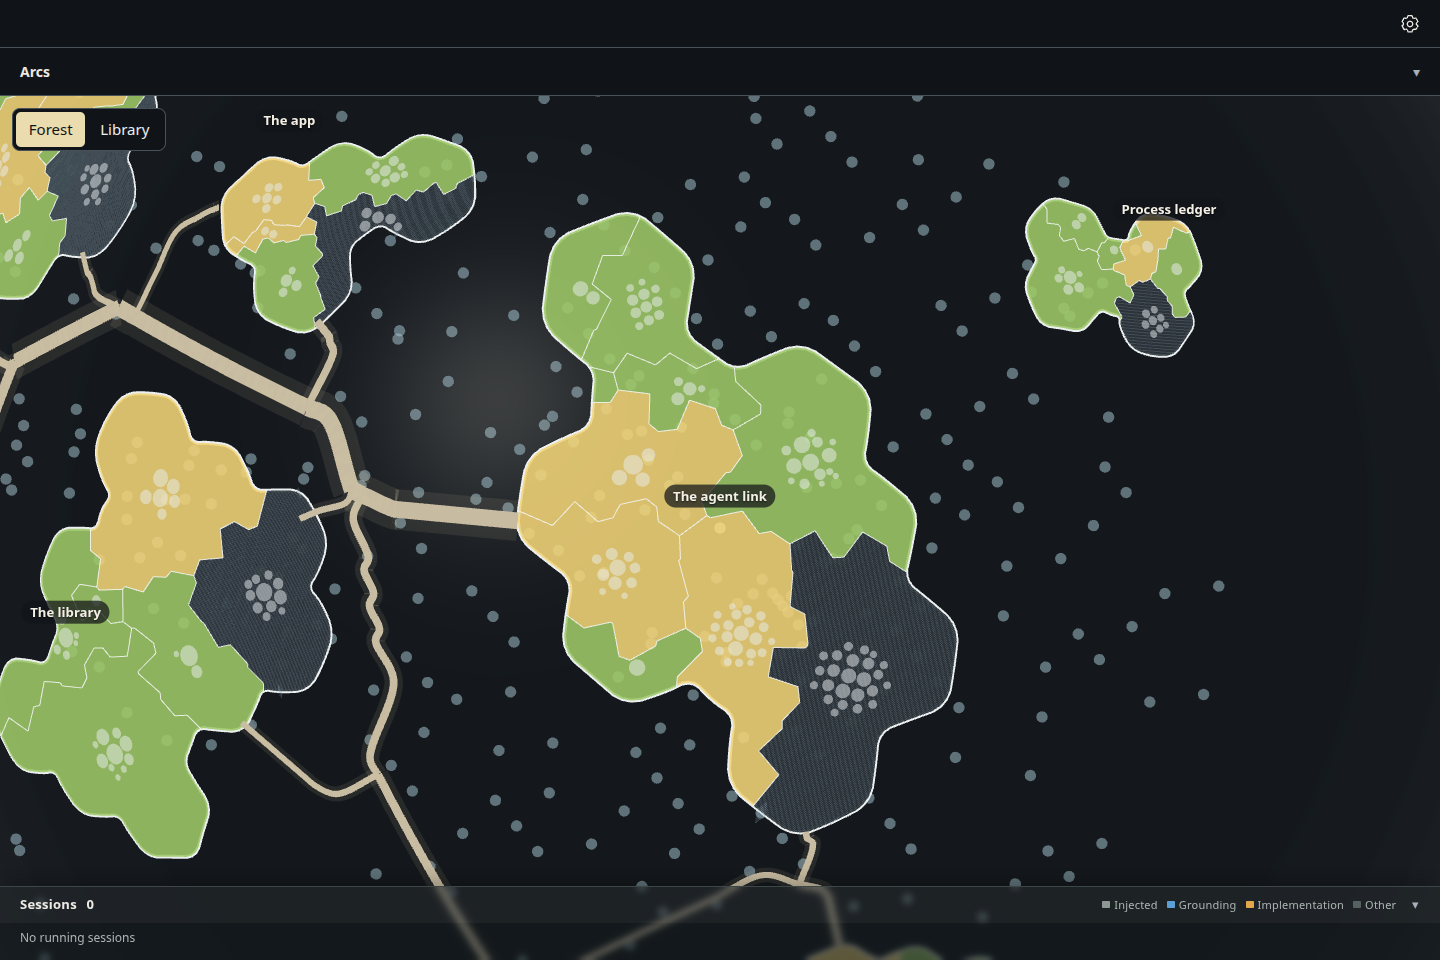
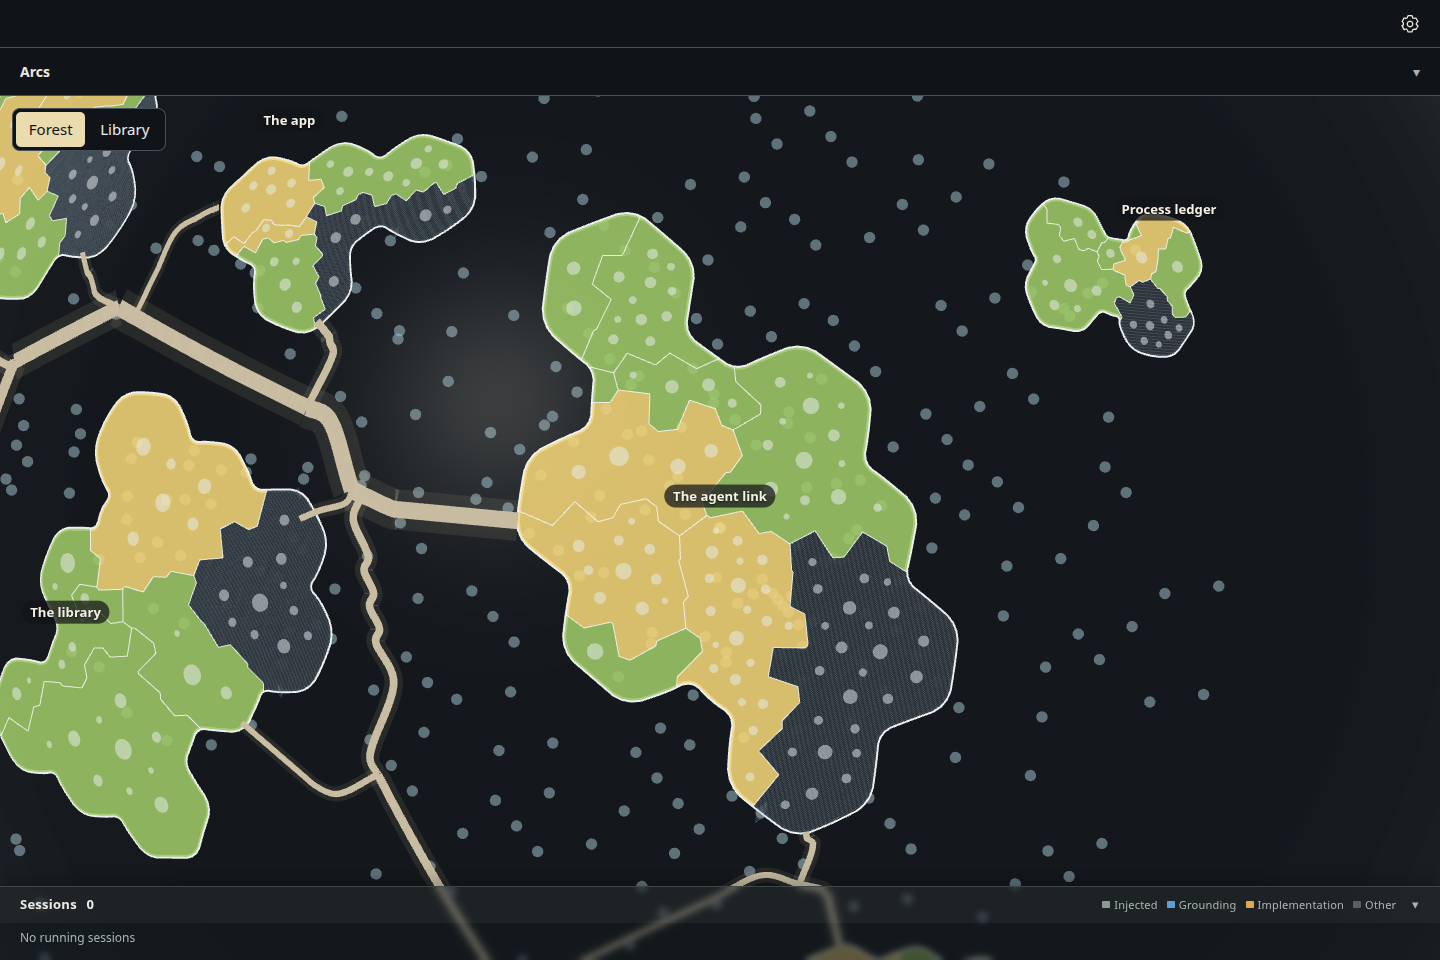
evidence(forest): recapture after circles spread over their territory

diff --git a/packages/forest/src/view/evidence/circles-fit/README.md b/packages/forest/src/view/evidence/circles-fit/README.md
@@ -5,8 +5,9 @@ middle on its capability's territory (so a circle could cross a border or the co
 another when a territory had more files than spots, and had diameter 1.3 + 0.24 * sqrt(lines). Now
 (`packages/forest/src/territories/territories.ts`, `fileCircles` / `landForCircles`;
 `packages/forest/src/render/forest-scene.ts`) every circle lies wholly inside its own territory, none
-overlap, the diameter is 1.2 + 0.14 * sqrt(lines), unscaled, and an island whose circles would not fit
-grows its land. These are pictures for the owner to look at; nothing here is recorded as accepted
+overlap, they spread over their territory's room (each on the spot with the most room left, packed
+from the middle only when spread they do not fit), the diameter is 1.2 + 0.14 * sqrt(lines), unscaled,
+and an island whose circles would not fit grows its land. These are pictures for the owner to look at; nothing here is recorded as accepted
 (ADR-0794).
 
 | View | Before | After |
@@ -24,7 +25,8 @@ builds get the same stand-in bridge, seed, survey, viewport, turns and zoom; not
   the islands, is unchanged.
 - **Survey** (`survey.json`): `readCodeSurvey` over this branch's checkout with the seed's tree, by
   `survey.mjs`; 421 files. The same survey feeds both builds, so the files are the same.
-- **Before** is `origin/main` at `2f1bd04c`, built from a throwaway worktree; **after** is this branch.
+- **Before** is `origin/main` at `2f1bd04c`, built from a throwaway worktree; **after** is this branch
+  at `2e3ceec3` (circles spread over their territory's room).
 
 ## Rerun
 
@@ -83,7 +85,10 @@ island ground mesh's area.
   ([before-world.png](before-world.png)) discs sit on the coastline at the top and on the left, and
   across the green/grey border; on The agent link ([before-crowded.png](before-crowded.png)) several
   discs straddle the coast on its right and bottom edges, and The library's and The app's do the same.
-- **After**: no disc crosses a border or the coast in any of the three pictures. The circles of each
-  territory now sit in one tight, packed clump near the territory's middle, leaving most of the
-  territory bare around it (most visible on The world's large grey territory, and in the front view,
-  where each territory reads as one small cluster of dots rather than a scatter across its land).
+- **After**: no disc crosses a border or the coast in any of the three pictures. The circles spread
+  over each territory as an even scatter, with clear space between neighbours, rather than bunching
+  in its middle: on The world ([after-world.png](after-world.png)) they cover the large grey territory
+  and the green ones edge to edge; on The agent link ([after-crowded.png](after-crowded.png)) each
+  territory carries its own scatter. A few of The world's small green cells on its left show no
+  circle at all. The circles are smaller than before's, so at the resting front view
+  ([after-front.png](after-front.png)) they read as fine speckle on each island.
